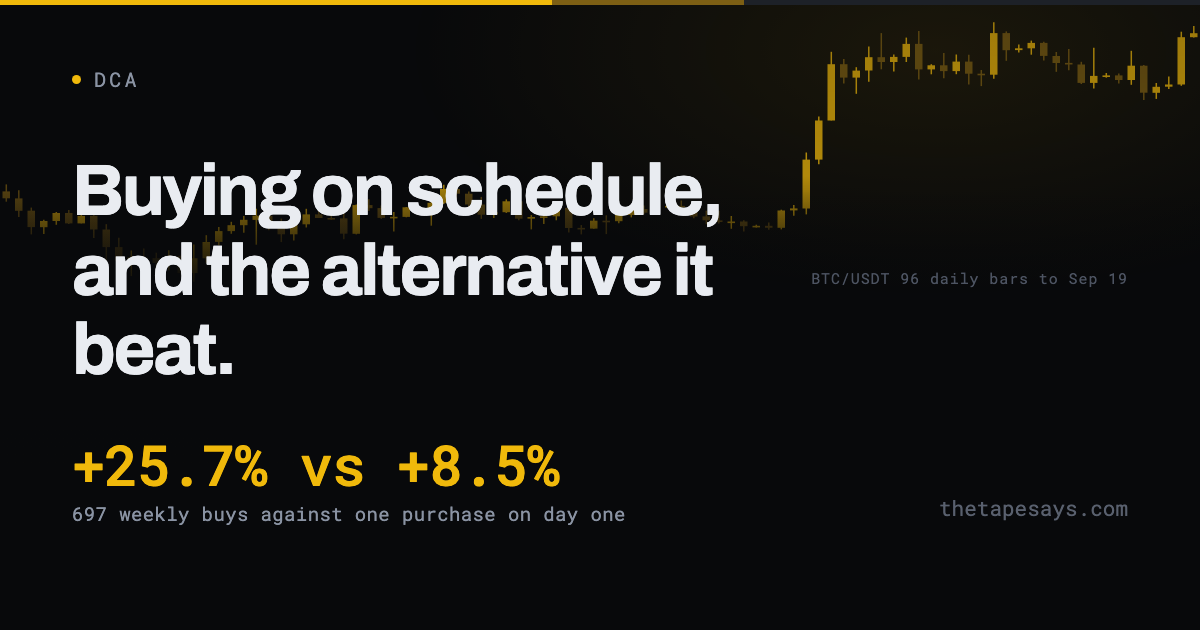
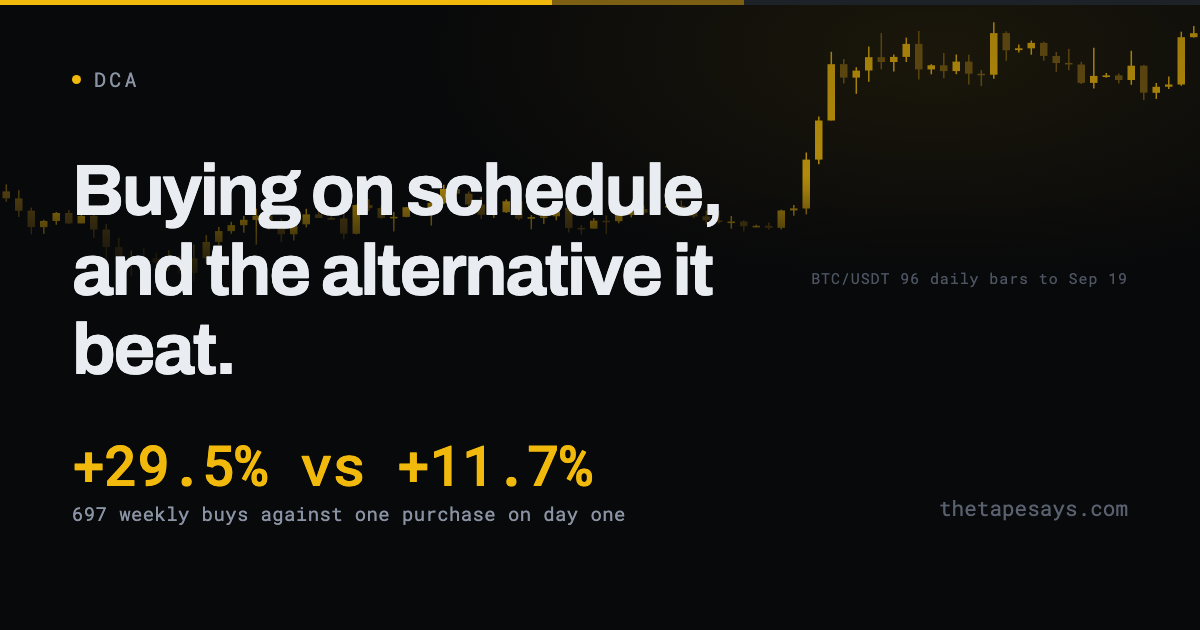
Say what the piece is about in the title
"Three boxes, one line" needs the article to decode it, which is the
wrong way round for a headline. The new one names the three coins and
what the post gives you, and the slug follows it.

Changed region(s): [[0.3392, 0.6937, 0.4933, 0.7841], [0.1233, 0.6937, 0.2158, 0.7841]]

diff --git a/src/content/posts/the-odds-after-three-breakouts.md b/src/content/posts/the-odds-after-three-breakouts.md
@@ -1,6 +1,6 @@
 ---
-title: 'Three boxes, one line'
-description: 'All three coins left their thirty-day range in a single session. The odds of coming back to the old ceiling, of reaching the 100-week average, and of closing above either, rerun on today price.'
+title: 'Bitcoin, Ether and Solana all left their range. The odds for the week ahead'
+description: 'The odds each one comes back to the ceiling it just cleared, reaches its 100-week average, and closes above either, rerun on today price.'
 pubDate: 2026-09-21
 kind: research
 stat: '34% to 67%'
